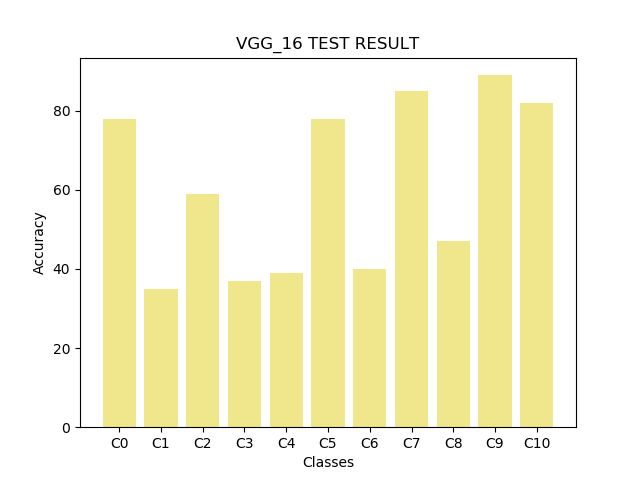
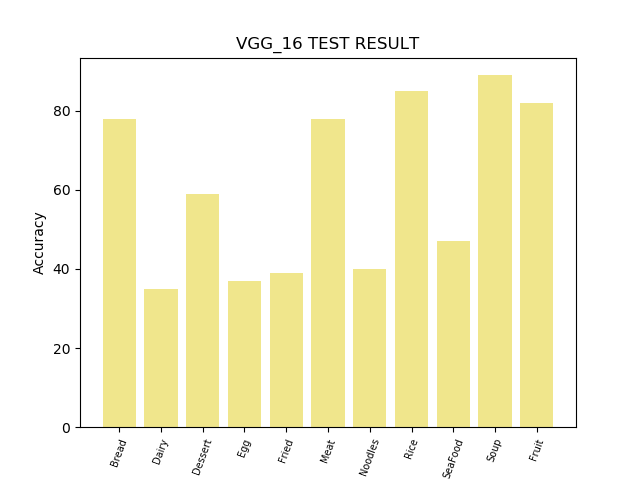
fix anems

diff --git a/commons/plot.py b/commons/plot.py
@@ -149,7 +149,7 @@ class Plot_G():
 		model_names = ["RE101_DO", "RE101_NO_DO", "RES_50", "VGG_16", "SE101_DO", "SE101_NO_DO",
 		 "SE_34", "SE_50", "SE_18"]
 		avg_acc = [Z1, Z1, Z3, Z4, Z5, Z6, Z7, Z8, Z9]
-		classes_name = ["C0", "C1", "C2", "C3", "C4", "C5", "C6", "C7", "C8", "C9", "C10"]
+		classes_name = ["Bread", "Dairy", "Dessert", "Egg", "Fried", "Meat", "Noodles", "Rice", "SeaFood", "Soup", "Fruit"]
 		plt.barh(model_names, avg_acc, alpha = 1, color = colors)
 		plt.title('Average Accuracy Of Models')
 		plt.xlabel('Models')
@@ -177,6 +177,7 @@ class Plot_G():
 		plt.bar(classes, acc_list, alpha = 1, color = color)
 		plt.title(title)
 		plt.xlabel('Classes')
+		plt.xticks(rotation = 70, fontsize=7)
 		plt.ylabel('Accuracy')
 		plt.savefig("[IMG]"+title)
 		plt.close()
